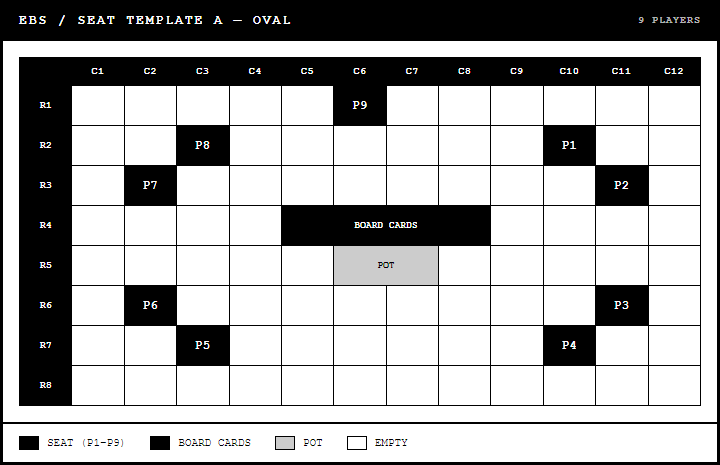
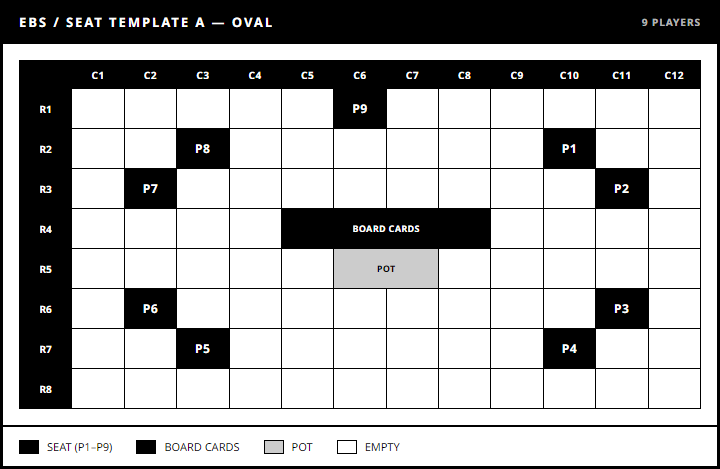
docs(mockup): 좌석 템플릿 B/C 재설계 + D 제거 + Noto Sans 통일
- Template B: P5→P1 리넘버링 (반시계 방향 순차)
- Template C: BOARD 밑변 반원 아치 재설계 (P1:C1R4 ~ P9:C12R4)
- Template D: 제거 (PRD 섹션 3.3.5 삭제, 3.3.6→3.3.5 리넘버링)
- 전체 v3 mockup 폰트 Courier New → Noto Sans 변경
- PRD 좌표 테이블 동기화

diff --git a/docs/02-design/mockups/v3/ebs-seat-template-c.html b/docs/02-design/mockups/v3/ebs-seat-template-c.html
@@ -1,8 +1,10 @@
 <!DOCTYPE html>
 <!-- Style Reference: Brutalist B&W — Seat Template C: Semicircle (Grid-Based) -->
+<!-- Redesign: BOARD CARDS at bottom (base), seats arc above in semicircle -->
 <html lang="ko">
 <head>
 <meta charset="UTF-8">
+<link href="https://fonts.googleapis.com/css2?family=Noto+Sans:wght@400;700&display=swap" rel="stylesheet">
 <title>EBS Seat Template C — Semicircle — B&W Mockup v3</title>
 <style>
   *, *::before, *::after { box-sizing: border-box; margin: 0; padding: 0; }
@@ -12,7 +14,7 @@
     width: 720px;
     background: #fff;
     border: 3px solid #000;
-    font-family: 'Courier New', 'Lucida Console', monospace;
+    font-family: 'Noto Sans', sans-serif;
   }
 
   .header {
@@ -40,7 +42,7 @@
     border-collapse: collapse;
     width: 100%;
     font-size: 11px;
-    font-family: 'Courier New', 'Lucida Console', monospace;
+    font-family: 'Noto Sans', sans-serif;
   }
 
   th, td {
@@ -138,19 +140,19 @@
         </tr>
       </thead>
       <tbody>
-        <!-- R1: P7(C2), P8(C4), P9(C6), P1(C8), P2(C10), P3(C12) -->
+        <!-- R1: P3(C3), P4(C5), P5(C7), P6(C9), P7(C11) — top arc -->
         <tr>
           <td class="row-header">R1</td>
-          <td class="empty"></td><td class="seat">P7</td><td class="empty"></td><td class="seat">P8</td>
-          <td class="empty"></td><td class="seat">P9</td><td class="empty"></td><td class="seat">P1</td>
-          <td class="empty"></td><td class="seat">P2</td><td class="empty"></td><td class="seat">P3</td>
+          <td class="empty"></td><td class="empty"></td><td class="seat">P3</td><td class="empty"></td>
+          <td class="seat">P4</td><td class="empty"></td><td class="seat">P5</td><td class="empty"></td>
+          <td class="seat">P6</td><td class="empty"></td><td class="seat">P7</td><td class="empty"></td>
         </tr>
-        <!-- R2 -->
+        <!-- R2: P2(C2), P8(C12) — upper sides -->
         <tr>
           <td class="row-header">R2</td>
+          <td class="empty"></td><td class="seat">P2</td><td class="empty"></td><td class="empty"></td>
           <td class="empty"></td><td class="empty"></td><td class="empty"></td><td class="empty"></td>
-          <td class="empty"></td><td class="empty"></td><td class="empty"></td><td class="empty"></td>
-          <td class="empty"></td><td class="empty"></td><td class="empty"></td><td class="empty"></td>
+          <td class="empty"></td><td class="empty"></td><td class="empty"></td><td class="seat">P8</td>
         </tr>
         <!-- R3 -->
         <tr>
@@ -159,12 +161,12 @@
           <td class="empty"></td><td class="empty"></td><td class="empty"></td><td class="empty"></td>
           <td class="empty"></td><td class="empty"></td><td class="empty"></td><td class="empty"></td>
         </tr>
-        <!-- R4: BOARD CARDS (C5-C8) -->
+        <!-- R4: P1(C1), BOARD CARDS (C5-C8), P9(C12) — base -->
         <tr>
           <td class="row-header">R4</td>
-          <td class="empty"></td><td class="empty"></td><td class="empty"></td><td class="empty"></td>
+          <td class="seat">P1</td><td class="empty"></td><td class="empty"></td><td class="empty"></td>
           <td class="board board-label" colspan="4">BOARD CARDS</td>
-          <td class="empty"></td><td class="empty"></td><td class="empty"></td><td class="empty"></td>
+          <td class="empty"></td><td class="empty"></td><td class="empty"></td><td class="seat">P9</td>
         </tr>
         <!-- R5: POT (C6-C7) -->
         <tr>
@@ -175,18 +177,18 @@
           <td class="empty"></td>
           <td class="empty"></td><td class="empty"></td><td class="empty"></td><td class="empty"></td>
         </tr>
-        <!-- R6: P6(C2), P4(C11) -->
+        <!-- R6 -->
         <tr>
           <td class="row-header">R6</td>
-          <td class="empty"></td><td class="seat">P6</td><td class="empty"></td><td class="empty"></td>
           <td class="empty"></td><td class="empty"></td><td class="empty"></td><td class="empty"></td>
-          <td class="empty"></td><td class="empty"></td><td class="seat">P4</td><td class="empty"></td>
+          <td class="empty"></td><td class="empty"></td><td class="empty"></td><td class="empty"></td>
+          <td class="empty"></td><td class="empty"></td><td class="empty"></td><td class="empty"></td>
         </tr>
-        <!-- R7: P5(C6) -->
+        <!-- R7 -->
         <tr>
           <td class="row-header">R7</td>
           <td class="empty"></td><td class="empty"></td><td class="empty"></td><td class="empty"></td>
-          <td class="empty"></td><td class="seat">P5</td><td class="empty"></td><td class="empty"></td>
+          <td class="empty"></td><td class="empty"></td><td class="empty"></td><td class="empty"></td>
           <td class="empty"></td><td class="empty"></td><td class="empty"></td><td class="empty"></td>
         </tr>
         <!-- R8 -->

diff --git a/docs/02-design/mockups/v3/ebs-seat-template-b.html b/docs/02-design/mockups/v3/ebs-seat-template-b.html
@@ -3,6 +3,7 @@
 <html lang="ko">
 <head>
 <meta charset="UTF-8">
+<link href="https://fonts.googleapis.com/css2?family=Noto+Sans:wght@400;700&display=swap" rel="stylesheet">
 <title>EBS Seat Template B — Hexagonal — B&W Mockup v3</title>
 <style>
   *, *::before, *::after { box-sizing: border-box; margin: 0; padding: 0; }
@@ -12,7 +13,7 @@
     width: 720px;
     background: #fff;
     border: 3px solid #000;
-    font-family: 'Courier New', 'Lucida Console', monospace;
+    font-family: 'Noto Sans', sans-serif;
   }
 
   .header {
@@ -40,7 +41,7 @@
     border-collapse: collapse;
     width: 100%;
     font-size: 11px;
-    font-family: 'Courier New', 'Lucida Console', monospace;
+    font-family: 'Noto Sans', sans-serif;
   }
 
   th, td {
@@ -145,19 +146,19 @@
           <td class="empty"></td><td class="empty"></td><td class="empty"></td><td class="empty"></td>
           <td class="empty"></td><td class="empty"></td><td class="empty"></td><td class="empty"></td>
         </tr>
-        <!-- R2: P8(C4), P1(C9) -->
+        <!-- R2: P4(C4), P5(C9) -->
         <tr>
           <td class="row-header">R2</td>
-          <td class="empty"></td><td class="empty"></td><td class="empty"></td><td class="seat">P8</td>
+          <td class="empty"></td><td class="empty"></td><td class="empty"></td><td class="seat">P4</td>
           <td class="empty"></td><td class="empty"></td><td class="empty"></td><td class="empty"></td>
-          <td class="seat">P1</td><td class="empty"></td><td class="empty"></td><td class="empty"></td>
+          <td class="seat">P5</td><td class="empty"></td><td class="empty"></td><td class="empty"></td>
         </tr>
-        <!-- R3: P7(C2), P2(C11) -->
+        <!-- R3: P3(C2), P6(C11) -->
         <tr>
           <td class="row-header">R3</td>
-          <td class="empty"></td><td class="seat">P7</td><td class="empty"></td><td class="empty"></td>
+          <td class="empty"></td><td class="seat">P3</td><td class="empty"></td><td class="empty"></td>
           <td class="empty"></td><td class="empty"></td><td class="empty"></td><td class="empty"></td>
-          <td class="empty"></td><td class="empty"></td><td class="seat">P2</td><td class="empty"></td>
+          <td class="empty"></td><td class="empty"></td><td class="seat">P6</td><td class="empty"></td>
         </tr>
         <!-- R4: BOARD CARDS (C5-C8) -->
         <tr>
@@ -175,19 +176,19 @@
           <td class="empty"></td>
           <td class="empty"></td><td class="empty"></td><td class="empty"></td><td class="empty"></td>
         </tr>
-        <!-- R6: P6(C2), P3(C11) -->
+        <!-- R6: P2(C2), P7(C11) -->
         <tr>
           <td class="row-header">R6</td>
-          <td class="empty"></td><td class="seat">P6</td><td class="empty"></td><td class="empty"></td>
+          <td class="empty"></td><td class="seat">P2</td><td class="empty"></td><td class="empty"></td>
           <td class="empty"></td><td class="empty"></td><td class="empty"></td><td class="empty"></td>
-          <td class="empty"></td><td class="empty"></td><td class="seat">P3</td><td class="empty"></td>
+          <td class="empty"></td><td class="empty"></td><td class="seat">P7</td><td class="empty"></td>
         </tr>
-        <!-- R7: P5(C4), P4(C9) -->
+        <!-- R7: P1(C4), P8(C9) -->
         <tr>
           <td class="row-header">R7</td>
-          <td class="empty"></td><td class="empty"></td><td class="empty"></td><td class="seat">P5</td>
+          <td class="empty"></td><td class="empty"></td><td class="empty"></td><td class="seat">P1</td>
           <td class="empty"></td><td class="empty"></td><td class="empty"></td><td class="empty"></td>
-          <td class="seat">P4</td><td class="empty"></td><td class="empty"></td><td class="empty"></td>
+          <td class="seat">P8</td><td class="empty"></td><td class="empty"></td><td class="empty"></td>
         </tr>
         <!-- R8 -->
         <tr>

diff --git a/docs/02-design/mockups/v3/ebs-seat-template-a.html b/docs/02-design/mockups/v3/ebs-seat-template-a.html
@@ -3,6 +3,7 @@
 <html lang="ko">
 <head>
 <meta charset="UTF-8">
+<link href="https://fonts.googleapis.com/css2?family=Noto+Sans:wght@400;700&display=swap" rel="stylesheet">
 <title>EBS Seat Template A — Oval — B&W Mockup v3</title>
 <style>
   *, *::before, *::after { box-sizing: border-box; margin: 0; padding: 0; }
@@ -12,7 +13,7 @@
     width: 720px;
     background: #fff;
     border: 3px solid #000;
-    font-family: 'Courier New', 'Lucida Console', monospace;
+    font-family: 'Noto Sans', sans-serif;
   }
 
   .header {
@@ -40,7 +41,7 @@
     border-collapse: collapse;
     width: 100%;
     font-size: 11px;
-    font-family: 'Courier New', 'Lucida Console', monospace;
+    font-family: 'Noto Sans', sans-serif;
   }
 
   th, td {

diff --git a/docs/02-design/mockups/v3/ebs-grid-system.html b/docs/02-design/mockups/v3/ebs-grid-system.html
@@ -3,6 +3,7 @@
 <html lang="ko">
 <head>
 <meta charset="UTF-8">
+<link href="https://fonts.googleapis.com/css2?family=Noto+Sans:wght@400;700&display=swap" rel="stylesheet">
 <title>EBS Grid System — B&W Mockup v3</title>
 <style>
   *, *::before, *::after { box-sizing: border-box; margin: 0; padding: 0; }
@@ -12,7 +13,7 @@
     width: 720px;
     background: #fff;
     border: 3px solid #000;
-    font-family: 'Courier New', 'Lucida Console', monospace;
+    font-family: 'Noto Sans', sans-serif;
   }
 
   .header {
@@ -34,7 +35,7 @@
     border-collapse: collapse;
     width: 100%;
     font-size: 11px;
-    font-family: 'Courier New', 'Lucida Console', monospace;
+    font-family: 'Noto Sans', sans-serif;
   }
 
   th, td {
